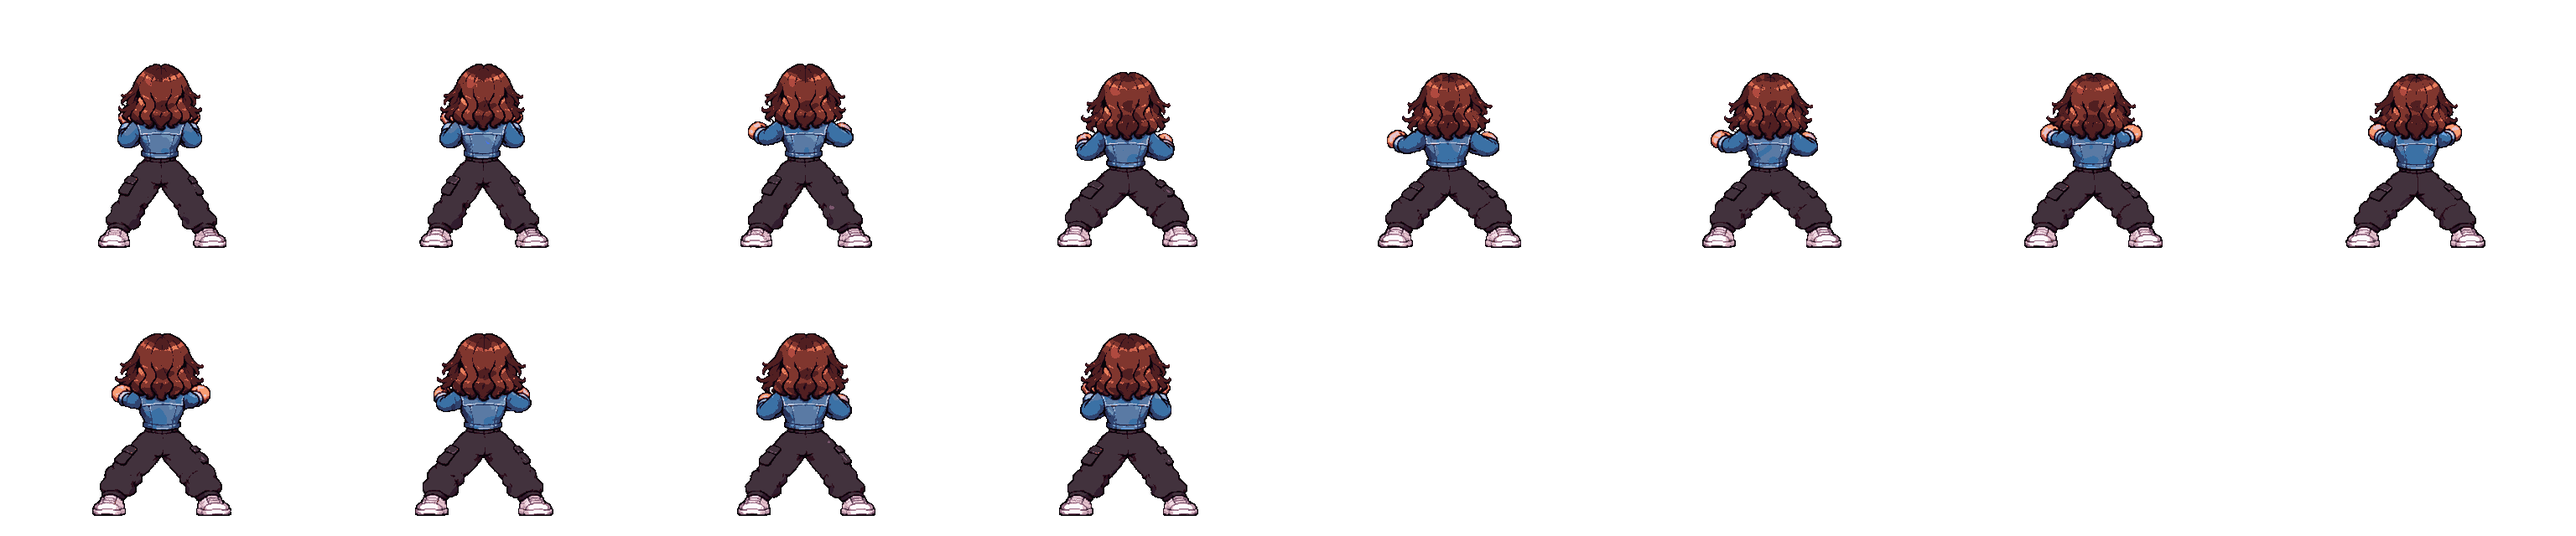
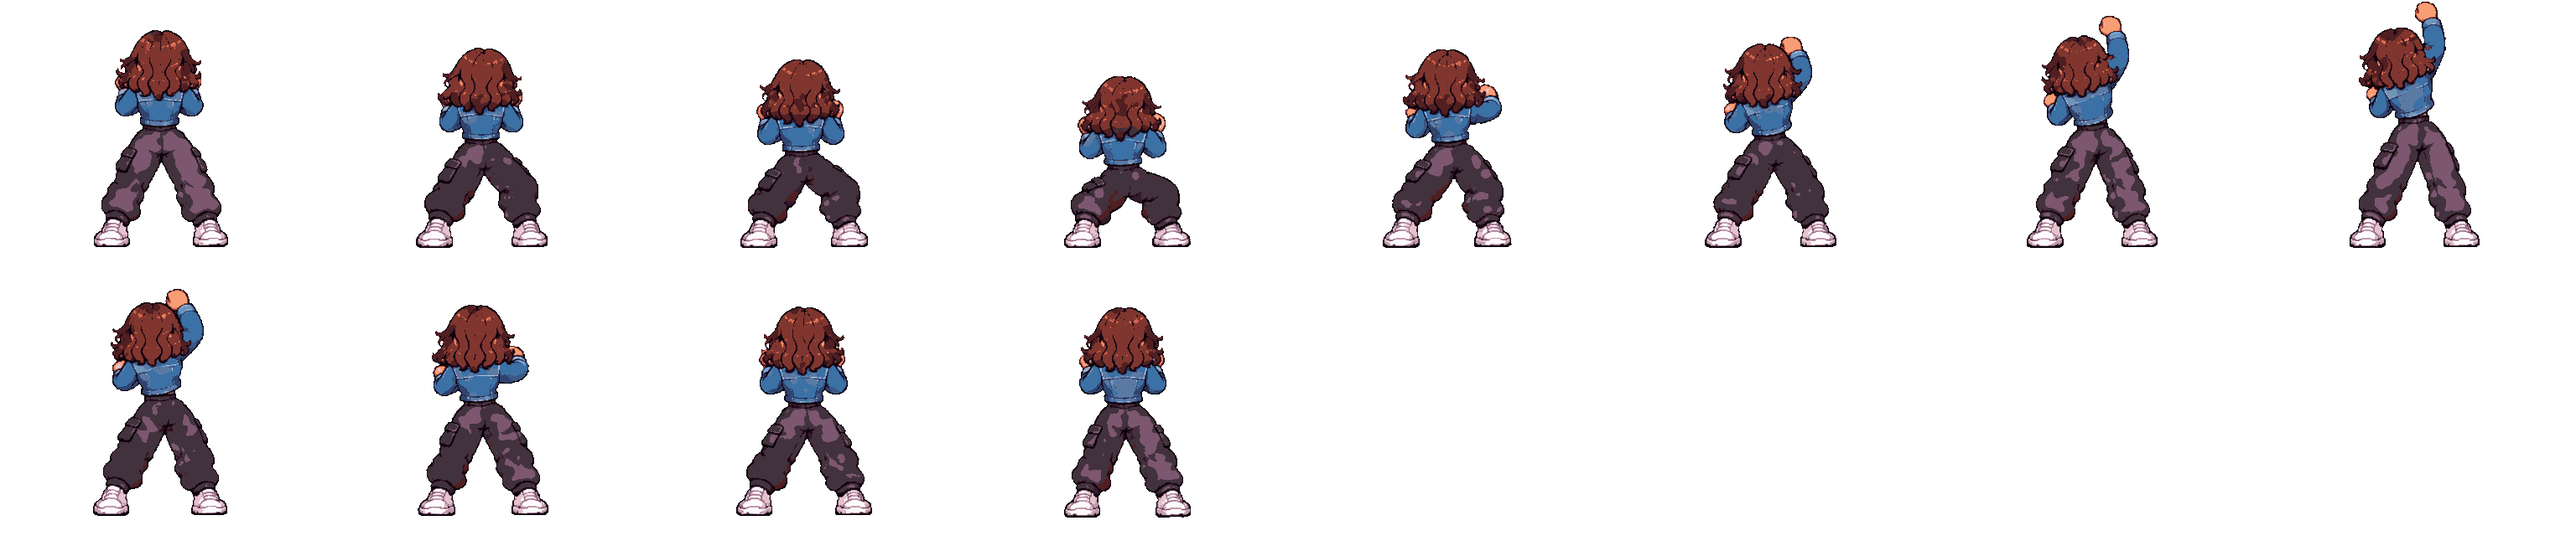
Zee front/back idle and makeup redrawn in the side idle's style (clean back pants), front/back third hit is now an uppercut like the side combo

diff --git a/src/main.js b/src/main.js
@@ -1,14 +1,14 @@
 // Game shell: loads Zee, runs the loop, draws the placeholder office + HUD, wires pause / touch UI.
-import { CONFIG } from './config.js?v=202611271953';
-import { loadCharacter, VERSION, LOOK, setLight } from './assets.js?v=202611271953';
-import { Input } from './input.js?v=202611271953';
-import { Zee } from './zee.js?v=202611271953';
-import { Game } from './game.js?v=202611271953';
-import { ENEMY_IDS } from './enemy.js?v=202611271953';
-import { drawHud as drawArcadeHud } from './hud.js?v=202611271953';
-import { Level, qualityDepartment } from './level.js?v=202611271953';
-import { Camera } from './camera.js?v=202611271953';
-import { unlock } from './sfx.js?v=202611271953';
+import { CONFIG } from './config.js?v=202611272018';
+import { loadCharacter, VERSION, LOOK, setLight } from './assets.js?v=202611272018';
+import { Input } from './input.js?v=202611272018';
+import { Zee } from './zee.js?v=202611272018';
+import { Game } from './game.js?v=202611272018';
+import { ENEMY_IDS } from './enemy.js?v=202611272018';
+import { drawHud as drawArcadeHud } from './hud.js?v=202611272018';
+import { Level, qualityDepartment } from './level.js?v=202611272018';
+import { Camera } from './camera.js?v=202611272018';
+import { unlock } from './sfx.js?v=202611272018';
 
 const { w: W, h: H } = CONFIG.view;
 const canvas = document.getElementById('game');

diff --git a/src/level.js b/src/level.js
@@ -20,8 +20,8 @@
 //   light: { rim, rimAlpha, rimPx, lightX, lightY, wash, washAlpha, feet } = how Zee and the enemies are lit in this room
 //   (rim / wash are [r,g,b]); the game eases from one room's light to the next (see setLight in assets.js).
 //   doorRight is the door to the NEXT room: while it is locked the player cannot pass it; no door (or unlocked) = open.
-import { CONFIG } from './config.js?v=202611271953';
-import { VERSION } from './assets.js?v=202611271953';
+import { CONFIG } from './config.js?v=202611272018';
+import { VERSION } from './assets.js?v=202611272018';
 
 const C = CONFIG.camera, F = CONFIG.floor;
 export const LAYER_H = 507;                       // layer height in pixels (the view shows 506.25)

diff --git a/src/game.js b/src/game.js
@@ -1,9 +1,9 @@
 // Game world: Zee + enemies, combat resolution, projectiles and all the "juice" (hit flash, sparks, shake, hit-stop, sound).
-import { CONFIG } from './config.js?v=202611271953';
-import { Enemy } from './enemy.js?v=202611271953';
-import { SOFT } from './zee.js?v=202611271953';
-import { sfx } from './sfx.js?v=202611271953';
-import { drawAnim } from './assets.js?v=202611271953';
+import { CONFIG } from './config.js?v=202611272018';
+import { Enemy } from './enemy.js?v=202611272018';
+import { SOFT } from './zee.js?v=202611272018';
+import { sfx } from './sfx.js?v=202611272018';
+import { drawAnim } from './assets.js?v=202611272018';
 
 const E = CONFIG.enemy;
 

diff --git a/src/enemy.js b/src/enemy.js
@@ -1,8 +1,8 @@
 // Enemy: a fighter with a small brain. It lines up with Zee, flanks, chains combos, sidesteps her swings, punishes her recovery,
 // throws call-centre headsets, and (navy + sporty, the "heavies") grabs and throws her.
 // Art comes from assets/characters/<id>/ ; every enemy shares this one brain.
-import { CONFIG } from './config.js?v=202611271953';
-import { frameAt, drawAnim, drawShadow, LOOK } from './assets.js?v=202611271953';
+import { CONFIG } from './config.js?v=202611272018';
+import { frameAt, drawAnim, drawShadow, LOOK } from './assets.js?v=202611272018';
 
 const E = CONFIG.enemy;
 const rnd = (a, b) => a + Math.random() * (b - a);

diff --git a/src/hud.js b/src/hud.js
@@ -1,8 +1,8 @@
 // Arcade HUD (early-2000s style): angled panels with white outlines, glossy bars, bold italic type.
 // Built from separate pieces drawn in game units, so it scales with the canvas at any resolution.
 // Top-left: portrait + HP bar + SP meter. Bottom-left: KO counter. All values come from the live game state.
-import { CONFIG } from './config.js?v=202611271953';
-import { VERSION } from './assets.js?v=202611271953';
+import { CONFIG } from './config.js?v=202611272018';
+import { VERSION } from './assets.js?v=202611272018';
 
 const portrait = new Image();
 portrait.src = 'assets/ui/zee_portrait.png?v=' + VERSION;

diff --git a/src/zee.js b/src/zee.js
@@ -1,7 +1,7 @@
 // Zee: the player character. A small state machine driven by input actions.
 // Movement, combat timing, and animation selection live here; art comes from the manifest (assets.js).
-import { CONFIG } from './config.js?v=202611271953';
-import { frameAt, drawAnim, drawShadow, LOOK } from './assets.js?v=202611271953';
+import { CONFIG } from './config.js?v=202611272018';
+import { frameAt, drawAnim, drawShadow, LOOK } from './assets.js?v=202611272018';
 
 const C = CONFIG.zee;
 // Front and back sheets are drawn as seen by the camera, so they are never mirrored (her badge and hand stay on the correct side).

diff --git a/src/camera.js b/src/camera.js
@@ -1,7 +1,7 @@
 // The world camera. The world is drawn through a zoomed-out camera (CONFIG.camera.zoom, about 0.71): 900 x 506 world units
 // are visible and rendered into the 640 x 360 screen. The camera follows Zee horizontally (with a little look-ahead in the
 // direction she faces) and is clamped to the level. It never scrolls vertically: the world is exactly one screen tall.
-import { CONFIG } from './config.js?v=202611271953';
+import { CONFIG } from './config.js?v=202611272018';
 
 export class Camera {
   constructor() { this.x = 0; this.px = 0; this.gx = 0; this.look = 0; this.ready = false; }

diff --git a/src/assets.js b/src/assets.js
@@ -1,6 +1,6 @@
 // Loads a character's manifest + strips and turns them into ready-to-play animation objects.
 // To swap art, replace the PNG strips / manifest in assets/characters/<name>/ - no code changes needed.
-import { CONFIG } from './config.js?v=202611271953';
+import { CONFIG } from './config.js?v=202611272018';
 
 // Release stamp, taken from this module's own URL (?v=...): every release uses new URLs so browsers never serve stale files.
 export const VERSION = new URL(import.meta.url).searchParams.get('v') || 'dev';

diff --git a/index.html b/index.html
@@ -93,7 +93,7 @@
 <div id="rotate"><div><h2>Rotate your phone</h2><p style="color:var(--mute)">This game plays in landscape.</p></div></div>
 <div id="loading"><div><div class="lt">CALL TERMINATED</div><div class="ls">is loading...</div></div></div>
 
-<script type="module" src="src/main.js?v=202611271953"></script>
+<script type="module" src="src/main.js?v=202611272018"></script>
 </body>
 </html>
 

diff --git a/src/input.js b/src/input.js
@@ -1,6 +1,6 @@
 // Unified input: keyboard on PC/laptop, floating joystick + buttons on touch devices.
 // The game only reads: input.axis (x,y in -1..1), input.run, and input.consume() (one-shot actions).
-import { CONFIG } from './config.js?v=202611271953';
+import { CONFIG } from './config.js?v=202611272018';
 
 export class Input {
   constructor(root = document) {

diff --git a/HANDOFF.md b/HANDOFF.md
@@ -70,7 +70,8 @@ zee.view = side/front/back (zee.js _dir() falls back to the side animation when 
 Masters: sprites/zee/master/zee_master_front_v1.png, _back_v1.png. All 10 moves exist front and back (idle, idle_makeup, walk, run, jump, punch_1-3, jump_kick, dodge); raw sheets sprites/zee/raw/<move>_front_v1.png / _back_v1.png, sizes in tools/zee-views.json (matched to the side view by hair size and height). Special, hurt, knockdown, get up, victory, interact and prone stay side view. Front/back attacks hit along the floor depth (game.js _zeeAttacks). Enemies get four directions later, when the user asks.
 
 ## Zee redo (2026-11-27)
-- Idle + makeup idle (all views) come from ONE drawing per view: sprites/zee/raw/idlemk_side_v2.png, idlemk_front_v2.png, idlemk_back_v3.png (redrawn 2026-11-27 in the build the other animations share) (16 frames: row 1 = idle breathing loop -> anim idle 0-3; rows 2-4 = makeup -> anim idle_makeup 4-15, ending in the idle pose). Same size and look by construction. The separate idle/makeup sheets and makeup-from-idle.ps1 are gone.
+- Idle + makeup idle (all views) come from ONE drawing per view: sprites/zee/raw/idlemk_side_v2.png, idlemk_front_v3.png, idlemk_back_v4.png (redrawn 2026-11-27 in the build the other animations share) (16 frames: row 1 = idle breathing loop -> anim idle 0-3; rows 2-4 = makeup -> anim idle_makeup 4-15, ending in the idle pose). Same size and look by construction. The separate idle/makeup sheets and makeup-from-idle.ps1 are gone.
 - dodge_front_v2: a real floor somersault toward the camera.
 - Front/back punches use both hands: punch_1 = left jab, punch_2 = right cross, punch_3 = two-fisted double punch (punch_*_front_v2 / _back_v2). Sizes in tools/zee-views.json.
 - Walk + run (all views) redrawn 2026-11-27 in the idle's style (thin lines, same head/shoe size), poses kept from the old sheets: walk_v5, run_v5, walk_front_v2, run_front_v2, walk_back_v2, run_back_v2. Sizes matched to the idle by head size.
+- Front/back combo = jab, cross, UPPERCUT like the side (punch_3_front_v3 / punch_3_back_v3, 2026-11-27).
